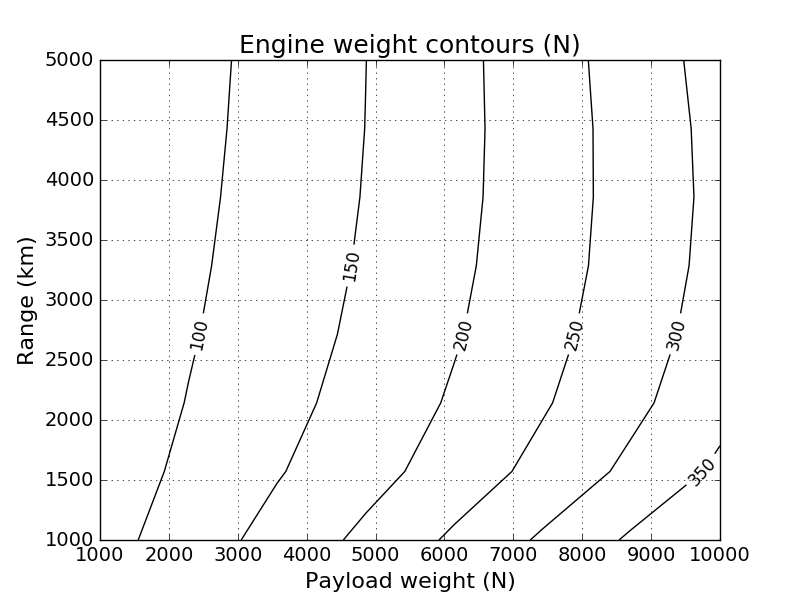
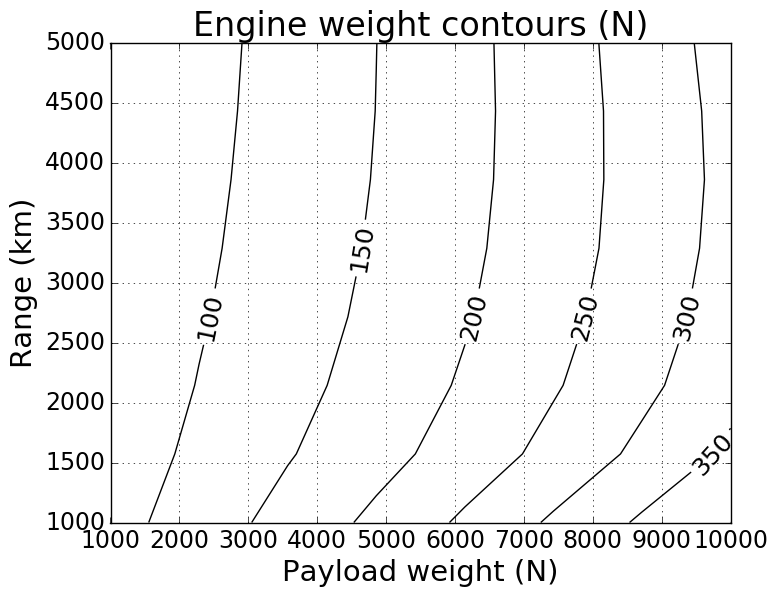
Formatting is hard.

diff --git a/missionDesign.py b/missionDesign.py
@@ -31,9 +31,9 @@ sol = m.localsolve(verbosity=2,skipsweepfailures=True)
 #                   m['W_p']:(1000,10000)})
 
 # Enlarging fonts
-SMALL_SIZE = 14
-MEDIUM_SIZE = 16
-BIGGER_SIZE = 18
+SMALL_SIZE = 17
+MEDIUM_SIZE = 21
+BIGGER_SIZE = 24
 
 plt.rc('font', size=SMALL_SIZE)          # controls default text sizes
 plt.rc('axes', titlesize=BIGGER_SIZE)     # fontsize of the axes title
@@ -70,9 +70,9 @@ CS = plt.contour(W_p,Range,Obj,colors='k')
 plt.xlabel('Payload weight (N)')
 plt.ylabel('Range (km)')
 plt.title('Objective contours')
-plt.clabel(CS,inline=1,fontsize=12,fmt='%1.3g')
+plt.clabel(CS,inline=1,fontsize=18,fmt='%1.3g')
 plt.grid()
-plt.savefig('figbank/Objcontours.png')
+plt.savefig('figbank/Objcontours.png',bbox_inches="tight")
 plt.close()
 
 # Time cost contours
@@ -80,9 +80,9 @@ CS = plt.contour(W_p,Range,timecost,colors='k')
 plt.xlabel('Payload weight (N)')
 plt.ylabel('Range (km)')
 plt.title('Time cost contours')
-plt.clabel(CS,inline=1,fontsize=12,fmt='%1.3g')
+plt.clabel(CS,inline=1,fontsize=18,fmt='%1.3g')
 plt.grid()
-plt.savefig('figbank/timecostcontours.png')
+plt.savefig('figbank/timecostcontours.png',bbox_inches="tight")
 plt.close()
 
 # Fuel weight contours
@@ -90,9 +90,9 @@ CS = plt.contour(W_p,Range,W_f,colors='k')
 plt.xlabel('Payload weight (N)')
 plt.ylabel('Range (km)')
 plt.title('Fuel weight contours (N)')
-plt.clabel(CS,inline=1,fontsize=12,fmt='%1.3g')
+plt.clabel(CS,inline=1,fontsize=18,fmt='%1.3g')
 plt.grid()
-plt.savefig('figbank/Wfcontours.png')
+plt.savefig('figbank/Wfcontours.png',bbox_inches="tight")
 plt.close()
 
 # Total weight contours
@@ -100,9 +100,9 @@ CS = plt.contour(W_p,Range,W,colors='k')
 plt.xlabel('Payload weight (N)')
 plt.ylabel('Range (km)')
 plt.title('Total weight contours (N)')
-plt.clabel(CS,inline=1,fontsize=12,fmt='%1.3g')
+plt.clabel(CS,inline=1,fontsize=18,fmt='%1.3g')
 plt.grid()
-plt.savefig('figbank/Wcontours.png')
+plt.savefig('figbank/Wcontours.png',bbox_inches="tight")
 plt.close()
 
 # Fuselage fuel fraction contours
@@ -110,9 +110,9 @@ CS = plt.contour(W_p,Range,Vffuse/Vftotal,colors='k')
 plt.xlabel('Payload weight (N)')
 plt.ylabel('Range (km)')
 plt.title('Fuselage fuel fraction contours')
-plt.clabel(CS,inline=1,fontsize=12,fmt='%1.3g')
+plt.clabel(CS,inline=1,fontsize=18,fmt='%1.3g')
 plt.grid()
-plt.savefig('figbank/vffusefraccontours.png')
+plt.savefig('figbank/vffusefraccontours.png',bbox_inches="tight")
 plt.close()
 
 # Excess wing volume contours
@@ -120,9 +120,9 @@ CS = plt.contour(W_p,Range,Vfwing/Vftotal,colors='k')
 plt.xlabel('Payload weight (N)')
 plt.ylabel('Range (km)')
 plt.title('Wing fuel fraction contours')
-plt.clabel(CS,inline=1,fontsize=12,fmt='%1.3g')
+plt.clabel(CS,inline=1,fontsize=18,fmt='%1.3g')
 plt.grid()
-plt.savefig('figbank/vfwingfraccontours.png')
+plt.savefig('figbank/vfwingfraccontours.png',bbox_inches="tight")
 plt.close()
 
 # Wing weight sensitivity contours
@@ -130,18 +130,18 @@ CS = plt.contour(W_p,Range,Wwcoeff1sens,colors='k')
 plt.xlabel('Payload weight (N)')
 plt.ylabel('Range (km)')
 plt.title('$W_{w_{\mathrm{coeff1}}}$ sensitivity contours')
-plt.clabel(CS,inline=1,fontsize=12,fmt='%1.3g')
+plt.clabel(CS,inline=1,fontsize=18,fmt='%1.3g')
 plt.grid()
-plt.savefig('figbank/Wwcoeff1senscontours.png')
+plt.savefig('figbank/Wwcoeff1senscontours.png',bbox_inches="tight")
 plt.close()
 
 CS = plt.contour(W_p,Range,Wwcoeff2sens,colors='k')
 plt.xlabel('Payload weight (N)')
 plt.ylabel('Range (km)')
 plt.title('$W_{w_{\mathrm{coeff2}}}$ sensitivity contours')
-plt.clabel(CS,inline=1,fontsize=12,fmt='%1.3g')
+plt.clabel(CS,inline=1,fontsize=18,fmt='%1.3g')
 plt.grid()
-plt.savefig('figbank/Wwcoeff2senscontours.png')
+plt.savefig('figbank/Wwcoeff2senscontours.png',bbox_inches="tight")
 plt.close()
 
 # Engine weight contours
@@ -149,9 +149,9 @@ CS = plt.contour(W_p,Range,W_e,colors='k')
 plt.xlabel('Payload weight (N)')
 plt.ylabel('Range (km)')
 plt.title('Engine weight contours (N)')
-plt.clabel(CS,inline=1,fontsize=12,fmt='%1.3g')
+plt.clabel(CS,inline=1,fontsize=18,fmt='%1.3g')
 plt.grid()
-plt.savefig('figbank/W_econtours.png')
+plt.savefig('figbank/W_econtours.png',bbox_inches="tight")
 plt.close()
 
 # Engine weight sensitivity contours
@@ -159,9 +159,9 @@ CS = plt.contour(W_p,Range,W_e_refsens,colors='k')
 plt.xlabel('Payload weight (N)')
 plt.ylabel('Range (km)')
 plt.title('Engine weight sensitivity contours')
-plt.clabel(CS,inline=1,fontsize=12,fmt='%1.3g')
+plt.clabel(CS,inline=1,fontsize=18,fmt='%1.3g')
 plt.grid()
-plt.savefig('figbank/Wesenscontours.png')
+plt.savefig('figbank/Wesenscontours.png',bbox_inches="tight")
 plt.close()
 
 # Max lift coefficient sensitivity contours
@@ -169,9 +169,9 @@ CS = plt.contour(W_p,Range,CLmaxsens,colors='k')
 plt.xlabel('Payload weight (N)')
 plt.ylabel('Range (km)')
 plt.title('$C_{L,max}$ sensitivity contours')
-plt.clabel(CS,inline=1,fontsize=12,fmt='%1.3g')
+plt.clabel(CS,inline=1,fontsize=18,fmt='%1.3g')
 plt.grid()
-plt.savefig('figbank/CLmaxsenscontours.png')
+plt.savefig('figbank/CLmaxsenscontours.png',bbox_inches="tight")
 plt.close()
 
 # Cruise altitude sensitivity contours
@@ -179,9 +179,9 @@ CS = plt.contour(W_p,Range,h_cruisesens,colors='k')
 plt.xlabel('Payload weight (N)')
 plt.ylabel('Range (km)')
 plt.title('Cruise altitude sensitivity contours')
-plt.clabel(CS,inline=1,fontsize=12,fmt='%1.3g')
+plt.clabel(CS,inline=1,fontsize=18,fmt='%1.3g')
 plt.grid()
-plt.savefig('figbank/hcruisesenscontours.png')
+plt.savefig('figbank/hcruisesenscontours.png',bbox_inches="tight")
 plt.close()
 
 # Min velocity sensitivity contours
@@ -189,9 +189,9 @@ CS = plt.contour(W_p,Range,Vminsens,colors='k')
 plt.xlabel('Payload weight (N)')
 plt.ylabel('Range (km)')
 plt.title('$V_{min}$ sensitivity contours')
-plt.clabel(CS,inline=1,fontsize=12,fmt='%1.3g')
+plt.clabel(CS,inline=1,fontsize=18,fmt='%1.3g')
 plt.grid()
-plt.savefig('figbank/Vminsenscontours.png')
+plt.savefig('figbank/Vminsenscontours.png',bbox_inches="tight")
 plt.close()
 
 # Cost index sensitivity contours
@@ -199,9 +199,9 @@ CS = plt.contour(W_p,Range,Csens,colors='k')
 plt.xlabel('Payload weight (N)')
 plt.ylabel('Range (km)')
 plt.title('Cost index sensitivity contours')
-plt.clabel(CS,inline=1,fontsize=12,fmt='%1.3g')
+plt.clabel(CS,inline=1,fontsize=18,fmt='%1.3g')
 plt.grid()
-plt.savefig('figbank/Csenscontours.png')
+plt.savefig('figbank/Csenscontours.png',bbox_inches="tight")
 plt.close()
 
 # Fuel weight sensitivity contours
@@ -209,7 +209,7 @@ CS = plt.contour(W_p,Range,rhofsens,colors='k')
 plt.xlabel('Payload weight (N)')
 plt.ylabel('Range (km)')
 plt.title('Fuel weight sensitivity contours')
-plt.clabel(CS,inline=1,fontsize=12,fmt='%1.3g')
+plt.clabel(CS,inline=1,fontsize=18,fmt='%1.3g')
 plt.grid()
-plt.savefig('figbank/rhofsenscontours.png')
+plt.savefig('figbank/rhofsenscontours.png',bbox_inches="tight")
 plt.close()

diff --git a/latex/ch3_extensibility.tex b/latex/ch3_extensibility.tex
@@ -123,7 +123,7 @@ Both fits are shown with the data in Figure~\ref{f:enginefit}.
 
 \begin{figure}
     \centering
-    \includegraphics[width=0.6\textwidth]{enginePvsW.png}
+    \includegraphics[width=0.8\textwidth]{enginePvsW.png}
     \caption{Engine MSL power versus weight fits for $K=1,2$ posynomial terms with underlying data.}
     \label{f:enginefit}
 \end{figure}
@@ -311,7 +311,7 @@ the constraint would be vectorized by the number of flight segments we create.
         \node[draw,circle,fit={(engineP)}, inner sep=-1pt] {};
         \node[draw,circle,fit={(aircraftP)}, inner sep=-1pt] {};
         \node[draw,circle,fit={(engine)}, inner sep=-1pt] {};
-        \node[draw,rectangle,fit={(aircraftP) (engineP) (wingP) (atmos)}] {};
+        \node[draw,rectangle,fit={(aircraftP) (engineP) (wingP) (atmos)},label=below:{Segment}] {};
     \end{forest}
     \caption[Variable hierarchy of thrust constraint~\ref{e:thrustConstr}.]{Variable hierarchy
     of thrust constraint~\ref{e:thrustConstr}. The models
@@ -442,12 +442,12 @@ to the \textbf{\textit{Mission}} model are detailed in Table~\ref{t:sweepinputs}
     \centering
     \begin{subfigure}[t]{0.5\linewidth}
         \centering
-        \includegraphics[width=0.9\linewidth]{mission2/Wfcontours.png}
+        \includegraphics[width=0.95\linewidth]{mission2/Wfcontours.png}
     \end{subfigure}%
     ~
     \begin{subfigure}[t]{0.5\linewidth}
         \centering
-        \includegraphics[width=0.9\linewidth]{mission2/Wcontours.png}
+        \includegraphics[width=0.95\linewidth]{mission2/Wcontours.png}
     \end{subfigure}
     \caption{The fuel and total weight contours with respect to range and payload.}
     \label{f:pareto}
@@ -459,7 +459,7 @@ the tradeoffs in fuel storage, and when it is beneficial to store fuel in the wi
 
 \begin{figure}
     \centering
-    \includegraphics[width=0.45\linewidth]{mission2/vffusefraccontours.png}
+    \includegraphics[width=0.475\linewidth]{mission2/vffusefraccontours.png}
     \caption{Fraction of total fuel stored in fuselage with respect to range and payload.}
     \label{f:fusefuelfrac}
 \end{figure}
@@ -476,12 +476,12 @@ since no fuel is allocated in the fuselage towards the lower right of the graph.
     \centering
     \begin{subfigure}[t]{0.5\linewidth}
         \centering
-        \includegraphics[width=0.9\linewidth]{mission2/timecostcontours.png}
+        \includegraphics[width=0.95\linewidth]{mission2/timecostcontours.png}
     \end{subfigure}%
     ~
     \begin{subfigure}[t]{0.5\linewidth}
         \centering
-        \includegraphics[width=0.9\linewidth]{mission2/Csenscontours.png}
+        \includegraphics[width=0.95\linewidth]{mission2/Csenscontours.png}
     \end{subfigure}
     \caption[Time cost and time cost index sensitivity contours.]{Time cost and time cost index sensitivity contours.
     We can gain intuition about the relative importance of different components
@@ -592,7 +592,7 @@ The result is shown by the green line in Figure~\ref{f:P_BSFC}.
 
 \begin{figure}
     \centering
-    \includegraphics[width=0.5\textwidth]{P_BSFC.png}
+    \includegraphics[width=0.6\textwidth]{P_BSFC.png}
     \caption[$\frac{\BSFC}{\BSFC_{min}}$ versus $\frac{P_{shaft}}{P_{shaft,alt}}$ data fit.]{$\frac{\BSFC}{\BSFC_{min}}$ versus $\frac{P_{shaft}}{P_{shaft,alt}}$ data fit. The green fit is
     not able to capture the tail ends of the curve, which is resolved by the bounding in the red fit.}
     \label{f:P_BSFC}
@@ -622,7 +622,7 @@ hierarchy to do multimission design. Now we vectorize the mission models flown b
     \begin{forest}
         sn edges,
         l sep+=1em,
-        s sep=(4-level)*4mm,
+        s sep=(4-level)*5mm,
         for children={
         l sep+=1em,
         }
@@ -648,8 +648,8 @@ hierarchy to do multimission design. Now we vectorize the mission models flown b
         \draw[->] (ac) -- (ap4);
         \draw[->] (ac) -- (mission1);
         \draw[->] (ac) -- (mission2);
-        \node[draw,circle,fit={(mission1) (ap1) (ap2) (ap1d) (ap2d)},inner sep=0.5cm,label=Mission 1] {};
-        \node[draw,circle,fit={(mission2) (ap3) (ap4) (ap3d) (ap4d)},inner sep=0.5cm,label=Mission 2] {};
+        \node[draw,circle,fit={(mission1) (ap1) (ap2) (ap1d) (ap2d)},inner sep=0.34cm,label=Mission 1] {};
+        \node[draw,circle,fit={(mission2) (ap3) (ap4) (ap3d) (ap4d)},inner sep=0.34cm,label=Mission 2] {};
     \end{forest}
     \caption{Multimission uni-directional graph, with $N_{segments} = 2$ and $N_{missions} = 2$.}
     \label{f:multimission}

diff --git a/enginefit/fitEnginePvsW.py b/enginefit/fitEnginePvsW.py
@@ -62,5 +62,5 @@ plt.plot(Pplot/1000, maxW*(0.00441* (Pplot/maxP)**0.759 +
 plt.xlabel('Mean sea level maximum power (kW)')
 plt.ylabel('Engine weight (lbs)')
 plt.grid(True)
-plt.legend(loc=2,fontsize=14)
+plt.legend(loc=2,fontsize=18)
 plt.show()
